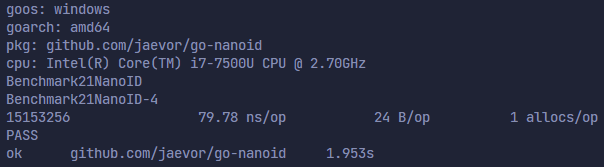
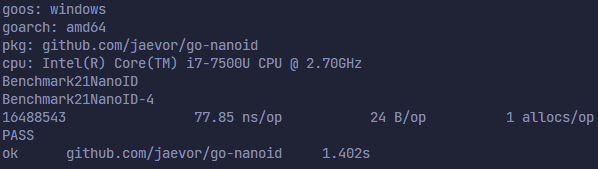
better prng

diff --git a/nanoid.go b/nanoid.go
@@ -8,18 +8,20 @@ Original reference: https://github.com/ai/nanoid
 package nanoid
 
 import (
-	cryptoRand "crypto/rand"
+	crand "crypto/rand"
+	"encoding/binary"
 	"errors"
 	"math"
 	"math/bits"
-	mathRand "math/rand"
+	mrand "math/rand"
 	"sync"
 )
 
+const alphabetSize = 64
+
 // Default characters (A-Za-z0-9_-).
 // Using less memory with [64]byte{...} than []byte(...).
-// var defaultAlphabet = []byte("useandom-26T198340PX75pxJACKVERYMINDBUSHWOLF_GQZbfghjklqvwyzrict")
-var defaultAlphabet = [...]byte{
+var defaultAlphabet = [alphabetSize]byte{
 	'a', 'b', 'c', 'd',
 	'e', 'f', 'g', 'h',
 	'i', 'j', 'k', 'l',
@@ -58,11 +60,11 @@ func Standard(length int) (generator, error) {
 	// that the bytes only have to be refilled
 	// every 129th nanoid. This is more efficient.
 	// b holds the random crypto bytes.
-	b := make([]byte, length*128)
+	b := make([]byte, length*(length*7))
 	size := len(b)
 	offset := 0
 
-	cryptoRand.Read(b)
+	crand.Read(b)
 
 	// Since the default alphabet is ASCII,
 	// we don't have to use runes here. ASCII max is
@@ -79,7 +81,7 @@ func Standard(length int) (generator, error) {
 		// If all the bytes in the slice
 		// have been used, refill.
 		if offset == size {
-			cryptoRand.Read(b)
+			crand.Read(b)
 			offset = 0
 		}
 
@@ -126,7 +128,7 @@ func StandardNonSecure(length int) (generator, error) {
 		"Read generates len(p) random bytes from the default Source and
 		writes them into p... It always returns len(p) and a **nil error**."
 	*/
-	mathRand.Read(b)
+	mrand.Read(b)
 
 	// Reuse.
 	id := make([]byte, length)
@@ -139,15 +141,15 @@ func StandardNonSecure(length int) (generator, error) {
 
 		if offset == size {
 			// Refill b.
-			mathRand.Read(b)
+			mrand.Read(b)
 			offset = 0
 		}
 
 		for i := 0; i < length; i++ {
-			id[i] = defaultAlphabet[b[i+offset]&63]
+			id[i] = defaultAlphabet[prng(alphabetSize)]
 		}
 
-		offset += length
+		// offset += length
 
 		return string(id)
 	}, nil
@@ -187,13 +189,12 @@ func Custom(alphabet string, length int) (generator, error) {
 		defer mu.Unlock()
 
 		for u := 0; ; {
-			cryptoRand.Read(b)
+			crand.Read(b)
 
 			for i := 0; i < step; i++ {
 				idx := b[i] & byte(mask)
 
 				if idx < byte(setLen) {
-					// id.WriteRune(runicSet[idx])
 					id[u] = runicSet[idx]
 					u++
 					if u == length {
@@ -225,14 +226,9 @@ func CustomNonSecure(alphabet string, length int) (generator, error) {
 
 	id := make([]rune, length)
 
-	var mu sync.Mutex
-
 	return func() string {
-		mu.Lock()
-		defer mu.Unlock()
-
 		for i := 0; i < length; i++ {
-			id[i] = runicSet[mathRand.Intn(setLen)]
+			id[i] = runicSet[prng(setLen)]
 		}
 
 		return string(id)
@@ -243,4 +239,33 @@ var errInvalidLength = errors.New("length for ID is too large or small")
 
 func invalidLength(length int) bool {
 	return length < 2 || length > 255
+}
+
+var prngmu sync.Mutex
+var tainer uint64
+
+// This is slow but still better than math.Intn()
+func prng(n int) int {
+	prngmu.Lock()
+
+	// xorshift.
+	tainer ^= tainer << 13
+	tainer ^= tainer >> 7
+	tainer ^= tainer << 17
+
+	prngmu.Unlock()
+
+	k := int(tainer)
+
+	if k < 0 {
+		k = -k
+	}
+
+	return k % n
+}
+
+func init() {
+	b := make([]byte, 8)
+	crand.Read(b)
+	tainer = binary.BigEndian.Uint64(b)
 }

diff --git a/nanoid_test.go b/nanoid_test.go
@@ -113,17 +113,6 @@ func Benchmark8NanoID(b *testing.B) {
 	}
 }
 
-func Benchmark16NanoID(b *testing.B) {
-	f, err := nanoid.Standard(16)
-	if err != nil {
-		panic(err)
-	}
-
-	for n := 0; n < b.N; n++ {
-		f()
-	}
-}
-
 func Benchmark21NanoID(b *testing.B) {
 	f, err := nanoid.Standard(21)
 	if err != nil {

diff --git a/README.md b/README.md
@@ -87,9 +87,9 @@ These are all benchmarks of the `Standard` Nano ID generator
 | # of characters & # of IDs | benchmark screenshot |
 | -------------------------- | ---------- |
 | 8, ~21,800,000             | <img src="img/benchmark-8.png">   |
-| 21, ~15,100,000            | <img src="img/benchmark-21.png">  |
+| 21, ~16,400,000            | <img src="img/benchmark-21.png">  |
 | 36, ~11,500,000            | <img src="img/benchmark-36.png">  |
-| 255, ~2,300,000            | <img src="img/benchmark-255.png"> |
+| 255, ~2,500,000            | <img src="img/benchmark-255.png"> |
 
 ## Credits & references
 - [Original reference](https://github.com/ai/nanoid)
